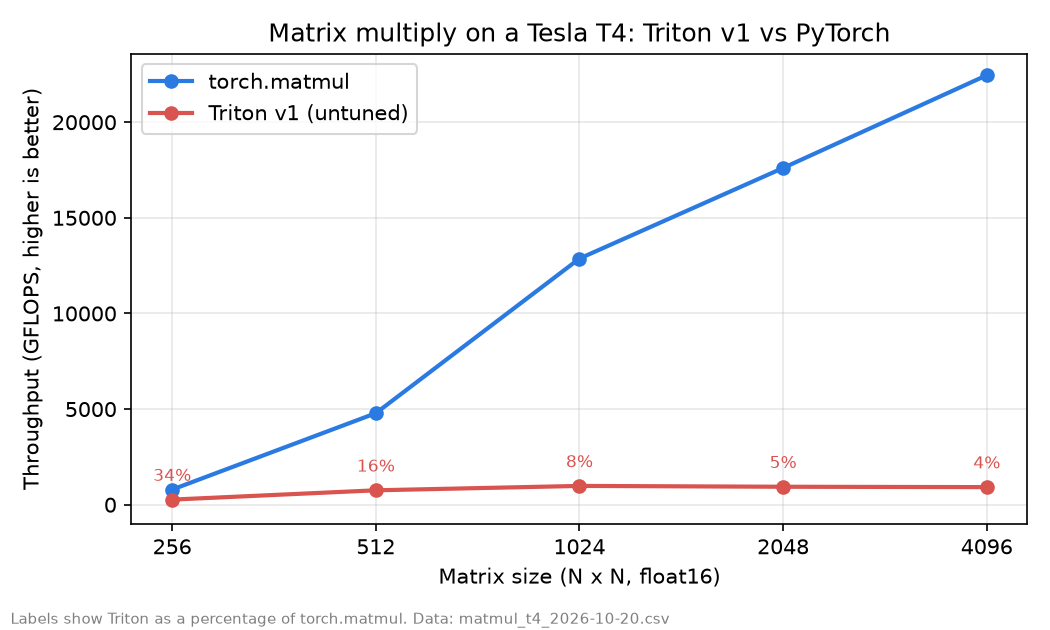
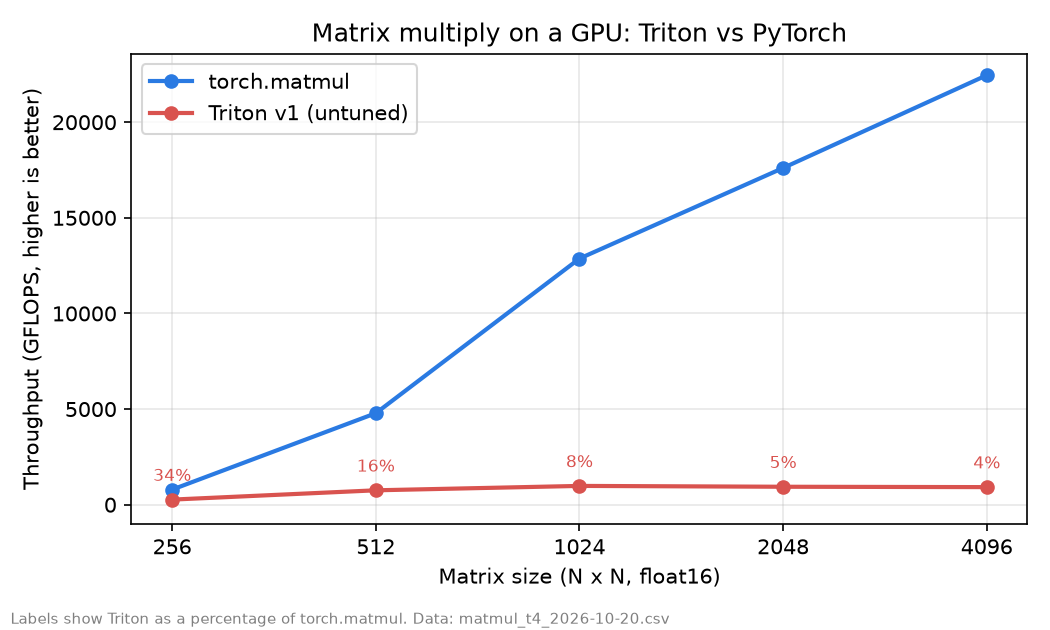
Add matmul v2 (autotune, grouped launch order), launch-order panel on the explainer, tested ordering math

Changed region(s): [[0.2438, 0.0302, 0.8533, 0.0905]]

diff --git a/docs/index.html b/docs/index.html
@@ -41,6 +41,9 @@
   th, td { text-align:right; padding:6px 10px; border-bottom:1px solid var(--line); }
   th:first-child, td:first-child { text-align:left; }
   .axis { stroke: var(--line); } .tick { font-size:12px; fill: var(--muted); }
+  .ord { fill: var(--card); stroke: var(--line); }
+  .ordtxt { font-size:11px; text-anchor:middle; fill: var(--fg); }
+  .wave { fill: var(--c); fill-opacity:.35; }
   a { color: var(--a); }
 </style>
 </head>
@@ -78,7 +81,22 @@
     <p class="muted" style="font-size:14px">Reduction = 2 x BM x BN / (BM + BN). The real kernel uses 64 x 64 tiles, which gives <b id="real">64</b>x fewer reads. The same formula is checked by a test in the repo (<code>tests/test_tiling.py</code>).</p>
   </div>
 
-  <h2>2. What has been measured</h2>
+  <h2>2. In what order should tiles run?</h2>
+  <p>The GPU runs many programs at once, and they share a cache. If the programs running together work on a compact block of output tiles, they need fewer different pieces of A and B, so more reads hit the cache. Version 2 of the kernel launches tiles in groups to do this. The grid below numbers the tiles in launch order, and the shaded ones are the first 16 programs, imagined to run at the same time.</p>
+  <div class="card">
+    <div class="controls">
+      <label>Group size <select id="grp"><option>1</option><option>2</option><option selected>4</option><option>8</option></select></label>
+      <span class="muted" style="font-size:14px">Group 1 is the plain row-by-row order.</span>
+    </div>
+    <svg id="order" role="img" aria-label="Grid of output tiles numbered in launch order, with the first sixteen shaded"></svg>
+    <div class="stats">
+      <div class="stat">Row-bands of A plus column-bands of B needed by the shaded tiles<b id="need">0</b></div>
+      <div class="stat">Same number for the plain row-by-row order<b id="needbase">0</b></div>
+    </div>
+    <p class="muted" style="font-size:14px">Fewer is better. This illustrates the idea and the arithmetic (checked by tests in <code>tests/test_tiling.py</code>). Whether it speeds up the real kernel is measured on a GPU, not claimed here.</p>
+  </div>
+
+  <h2>3. What has been measured</h2>
   <p>First version of the kernel, 16-bit numbers, on a free Tesla T4 on Google Colab (2026-10-20). The answers match PyTorch, but the speed does not yet.</p>
   <div class="card">
     <svg id="chart" viewBox="0 0 720 340" role="img" aria-label="Line chart of throughput versus matrix size for torch.matmul and the first Triton kernel"></svg>
@@ -86,8 +104,8 @@
     <p class="muted" style="font-size:14px">The first kernel uses one fixed tile size and default launch settings, and it reaches about 4 percent of PyTorch's speed at 4096. Next is a sweep of tile sizes, warps and pipeline stages, one change at a time, with each result recorded in the repo.</p>
   </div>
 
-  <h2>3. What is next</h2>
-  <p>Tune the kernel and plot the climb from 4 percent toward PyTorch. Then train a simulated robot on a GPU simulator and compare simulation speed on the CPU and GPU. Everything here runs on a free shared GPU. <a href="https://colab.research.google.com/github/therealemmanueloppong/gpu-robot-lab/blob/main/notebooks/colab_quickstart.ipynb">Run it yourself in Colab</a>.</p>
+  <h2>4. What is next</h2>
+  <p>Version 2 of the kernel (automatic tuning plus the grouped launch order above) is written and waiting for its first GPU run. Then plot the climb from 4 percent toward PyTorch, and report what actually helped. Then train a simulated robot on a GPU simulator and compare simulation speed on the CPU and GPU. Everything here runs on a free shared GPU. <a href="https://colab.research.google.com/github/therealemmanueloppong/gpu-robot-lab/blob/main/notebooks/colab_quickstart.ipynb">Run it yourself in Colab</a>.</p>
 </main>
 
 <script>
@@ -185,6 +203,38 @@
   $('speed').oninput = function () { if (timer) { stop(); play(); } };
   $('real').textContent = (2 * 64 * 64 / (64 + 64)).toString();
   build();
+
+  /* launch order panel, same arithmetic as tiling.grouped_order and the v2 kernel */
+  function grouped(nm, nn, g) {
+    var out = [], per = g * nn;
+    for (var pid = 0; pid < nm * nn; pid++) {
+      var first = Math.floor(pid / per) * g, size = Math.min(nm - first, g);
+      out.push([first + (pid % per) % size, Math.floor((pid % per) / size)]);
+    }
+    return out;
+  }
+  function needed(list) {
+    var ms = {}, ns = {};
+    list.forEach(function (p) { ms[p[0]] = 1; ns[p[1]] = 1; });
+    return Object.keys(ms).length + Object.keys(ns).length;
+  }
+  function drawOrder() {
+    var G = 8, WAVE = 16, cs = 40, pad = 6, g = parseInt($('grp').value, 10);
+    var order = grouped(G, G, g), svg = $('order');
+    while (svg.firstChild) svg.removeChild(svg.firstChild);
+    svg.setAttribute('viewBox', '0 0 ' + (G * cs + 2 * pad) + ' ' + (G * cs + 2 * pad));
+    svg.style.maxWidth = '360px'; svg.style.margin = '0 auto';
+    order.forEach(function (p, i) {
+      el('rect', { x: pad + p[1] * cs, y: pad + p[0] * cs, width: cs, height: cs, 'class': 'ord' }, svg);
+      if (i < WAVE) el('rect', { x: pad + p[1] * cs, y: pad + p[0] * cs, width: cs, height: cs, 'class': 'wave' }, svg);
+      var t = el('text', { x: pad + p[1] * cs + cs / 2, y: pad + p[0] * cs + cs / 2 + 4, 'class': 'ordtxt' }, svg);
+      t.textContent = i;
+    });
+    $('need').textContent = needed(order.slice(0, WAVE));
+    $('needbase').textContent = needed(grouped(G, G, 1).slice(0, WAVE));
+  }
+  $('grp').onchange = drawOrder;
+  drawOrder();
 
   /* measured data, from results/matmul_t4_2026-10-20.csv */
   var data = [

diff --git a/src/gpu_robot_lab/kernels/matmul_v2.py b/src/gpu_robot_lab/kernels/matmul_v2.py
@@ -1,0 +1,80 @@
+"""Matmul v2 in Triton: automatic tuning plus a cache-friendly launch order.
+
+Not yet run on a GPU. Run ``scripts/check_kernels.py`` and ``scripts/bench_matmul.py`` on a Colab GPU.
+
+Two changes from v1:
+1. ``triton.autotune`` tries several tile sizes, warp counts and pipeline depths the first time it
+   sees a new matrix shape and keeps the fastest. Settings that do not fit on the GPU are skipped.
+2. Programs are launched in groups of GROUP_M rows of tiles (see ``tiling.grouped_order``), so tiles
+   that run at the same time reuse the same data from the GPU's L2 cache.
+"""
+from __future__ import annotations
+
+import torch
+import triton
+import triton.language as tl
+
+_CONFIGS = [
+    triton.Config({"BLOCK_M": 128, "BLOCK_N": 128, "BLOCK_K": 32, "GROUP_M": 8}, num_stages=2, num_warps=8),
+    triton.Config({"BLOCK_M": 128, "BLOCK_N": 64, "BLOCK_K": 32, "GROUP_M": 8}, num_stages=3, num_warps=4),
+    triton.Config({"BLOCK_M": 64, "BLOCK_N": 128, "BLOCK_K": 32, "GROUP_M": 8}, num_stages=3, num_warps=4),
+    triton.Config({"BLOCK_M": 64, "BLOCK_N": 64, "BLOCK_K": 32, "GROUP_M": 8}, num_stages=4, num_warps=4),
+    triton.Config({"BLOCK_M": 128, "BLOCK_N": 64, "BLOCK_K": 64, "GROUP_M": 8}, num_stages=2, num_warps=4),
+    triton.Config({"BLOCK_M": 64, "BLOCK_N": 64, "BLOCK_K": 64, "GROUP_M": 8}, num_stages=3, num_warps=4),
+    triton.Config({"BLOCK_M": 32, "BLOCK_N": 64, "BLOCK_K": 32, "GROUP_M": 8}, num_stages=4, num_warps=2),
+]
+
+
+@triton.autotune(configs=_CONFIGS, key=["M", "N", "K"])
+@triton.jit
+def _matmul_kernel_v2(
+    a_ptr, b_ptr, c_ptr, M, N, K,
+    stride_am, stride_ak, stride_bk, stride_bn, stride_cm, stride_cn,
+    BLOCK_M: tl.constexpr, BLOCK_N: tl.constexpr, BLOCK_K: tl.constexpr, GROUP_M: tl.constexpr,
+):
+    pid = tl.program_id(0)
+    num_pid_m = tl.cdiv(M, BLOCK_M)
+    num_pid_n = tl.cdiv(N, BLOCK_N)
+    # Same arithmetic as tiling.grouped_order, which is unit tested on the CPU.
+    per_group = GROUP_M * num_pid_n
+    first_m = (pid // per_group) * GROUP_M
+    size_m = min(num_pid_m - first_m, GROUP_M)
+    pid_m = first_m + ((pid % per_group) % size_m)
+    pid_n = (pid % per_group) // size_m
+
+    offs_m = pid_m * BLOCK_M + tl.arange(0, BLOCK_M)
+    offs_n = pid_n * BLOCK_N + tl.arange(0, BLOCK_N)
+    offs_k = tl.arange(0, BLOCK_K)
+    a_ptrs = a_ptr + offs_m[:, None] * stride_am + offs_k[None, :] * stride_ak
+    b_ptrs = b_ptr + offs_k[:, None] * stride_bk + offs_n[None, :] * stride_bn
+
+    acc = tl.zeros((BLOCK_M, BLOCK_N), dtype=tl.float32)
+    for k in range(tl.cdiv(K, BLOCK_K)):
+        k_left = K - k * BLOCK_K
+        a = tl.load(a_ptrs, mask=(offs_m[:, None] < M) & (offs_k[None, :] < k_left), other=0.0)
+        b = tl.load(b_ptrs, mask=(offs_k[:, None] < k_left) & (offs_n[None, :] < N), other=0.0)
+        acc += tl.dot(a, b)
+        a_ptrs += BLOCK_K * stride_ak
+        b_ptrs += BLOCK_K * stride_bk
+
+    c_ptrs = c_ptr + offs_m[:, None] * stride_cm + offs_n[None, :] * stride_cn
+    tl.store(c_ptrs, acc.to(tl.float16), mask=(offs_m[:, None] < M) & (offs_n[None, :] < N))
+
+
+def matmul_v2(a: torch.Tensor, b: torch.Tensor) -> torch.Tensor:
+    """C = A @ B for float16 CUDA tensors, with autotuned tile settings."""
+    if a.dtype != torch.float16 or b.dtype != torch.float16:
+        raise ValueError("matmul_v2 expects float16 inputs")
+    if not (a.is_cuda and b.is_cuda):
+        raise ValueError("matmul_v2 expects CUDA tensors")
+    if a.ndim != 2 or b.ndim != 2 or a.shape[1] != b.shape[0]:
+        raise ValueError(f"cannot multiply shapes {tuple(a.shape)} and {tuple(b.shape)}")
+    m, k = a.shape
+    _, n = b.shape
+    c = torch.empty((m, n), device=a.device, dtype=torch.float16)
+    grid = lambda meta: (triton.cdiv(m, meta["BLOCK_M"]) * triton.cdiv(n, meta["BLOCK_N"]),)
+    _matmul_kernel_v2[grid](
+        a, b, c, m, n, k,
+        a.stride(0), a.stride(1), b.stride(0), b.stride(1), c.stride(0), c.stride(1),
+    )
+    return c

diff --git a/scripts/plot_results.py b/scripts/plot_results.py
@@ -17,10 +17,15 @@ def main(path: str) -> int:
     sizes = [int(r["size"]) for r in rows]
     torch_g = [float(r["torch_gflops"]) for r in rows]
     triton_g = [float(r["triton_gflops"]) for r in rows]
+    v2_g = [float(r["v2_gflops"]) for r in rows] if "v2_gflops" in rows[0] else None
 
     fig, ax = plt.subplots(figsize=(7, 4.2), dpi=150)
     ax.plot(sizes, torch_g, marker="o", linewidth=2, color="#2a7ae2", label="torch.matmul")
     ax.plot(sizes, triton_g, marker="o", linewidth=2, color="#d9534f", label="Triton v1 (untuned)")
+    if v2_g:
+        ax.plot(sizes, v2_g, marker="o", linewidth=2, color="#2e9e6b", label="Triton v2 (autotuned)")
+        for x, t, y in zip(sizes, torch_g, v2_g):
+            ax.annotate(f"{y / t:.0%}", (x, y), textcoords="offset points", xytext=(0, 9), ha="center", fontsize=8, color="#2e9e6b")
     for x, t, y in zip(sizes, torch_g, triton_g):
         ax.annotate(f"{y / t:.0%}", (x, y), textcoords="offset points", xytext=(0, 9), ha="center", fontsize=8, color="#d9534f")
     ax.set_xscale("log", base=2)
@@ -28,7 +33,7 @@ def main(path: str) -> int:
     ax.set_xticklabels([str(s) for s in sizes])
     ax.set_xlabel("Matrix size (N x N, float16)")
     ax.set_ylabel("Throughput (GFLOPS, higher is better)")
-    ax.set_title("Matrix multiply on a Tesla T4: Triton v1 vs PyTorch")
+    ax.set_title("Matrix multiply on a GPU: Triton vs PyTorch")
     ax.set_ylim(bottom=-1000)
     ax.grid(alpha=0.3)
     ax.legend()

diff --git a/src/gpu_robot_lab/tiling.py b/src/gpu_robot_lab/tiling.py
@@ -68,3 +68,30 @@ def traffic_reduction(block_m: int, block_n: int) -> float:
     so the saving is 2 * BM * BN / (BM + BN).
     """
     return 2 * block_m * block_n / (block_m + block_n)
+
+
+def row_major_order(num_pid_m: int, num_pid_n: int) -> list[tuple[int, int]]:
+    """The simple launch order: finish a whole row of output tiles, then the next row."""
+    return [(i, j) for i in range(num_pid_m) for j in range(num_pid_n)]
+
+
+def grouped_order(num_pid_m: int, num_pid_n: int, group_m: int) -> list[tuple[int, int]]:
+    """The launch order used by matmul_v2: walk down groups of ``group_m`` rows of tiles.
+
+    This is the same arithmetic the kernel does with its program id. Programs that run at the
+    same time then work on a compact block of output tiles and share loaded data in cache.
+    """
+    if group_m < 1:
+        raise ValueError("group_m must be positive")
+    order = []
+    per_group = group_m * num_pid_n
+    for pid in range(num_pid_m * num_pid_n):
+        first_m = (pid // per_group) * group_m
+        size_m = min(num_pid_m - first_m, group_m)
+        order.append((first_m + (pid % per_group) % size_m, (pid % per_group) // size_m))
+    return order
+
+
+def tiles_needed(order: list[tuple[int, int]]) -> int:
+    """How many different row-bands of A plus column-bands of B a set of programs must load."""
+    return len({m for m, _ in order}) + len({n for _, n in order})

diff --git a/scripts/bench_matmul.py b/scripts/bench_matmul.py
@@ -16,6 +16,7 @@ def main() -> int:
     import triton
 
     from gpu_robot_lab.kernels.matmul import matmul
+    from gpu_robot_lab.kernels.matmul_v2 import matmul_v2
 
     print(f"GPU: {torch.cuda.get_device_name(0)}")
     print(f"torch {torch.__version__}, triton {triton.__version__}, CUDA {torch.version.cuda}")
@@ -26,6 +27,8 @@ def main() -> int:
         flops = matmul_flops(size, size, size)
         torch_t = time_fn(lambda a=a, b=b: torch.matmul(a, b), sync=torch.cuda.synchronize)
         mine_t = time_fn(lambda a=a, b=b: matmul(a, b), sync=torch.cuda.synchronize)
+        matmul_v2(a, b)  # first call runs the autotuner, so keep it out of the timing
+        v2_t = time_fn(lambda a=a, b=b: matmul_v2(a, b), sync=torch.cuda.synchronize)
         row = {
             "size": size,
             "torch_ms": round(torch_t.median_ms, 4),
@@ -33,6 +36,9 @@ def main() -> int:
             "torch_gflops": round(gflops(flops, torch_t.median_ms), 1),
             "triton_gflops": round(gflops(flops, mine_t.median_ms), 1),
             "triton_vs_torch": round(speedup(torch_t.median_ms, mine_t.median_ms), 3),
+            "v2_ms": round(v2_t.median_ms, 4),
+            "v2_gflops": round(gflops(flops, v2_t.median_ms), 1),
+            "v2_vs_torch": round(speedup(torch_t.median_ms, v2_t.median_ms), 3),
         }
         rows.append(row)
         print(row)

diff --git a/tests/test_tiling.py b/tests/test_tiling.py
@@ -40,3 +40,30 @@ def test_bad_inputs_are_rejected():
         tiled_matmul(np.zeros((2, 3)), np.zeros((4, 2)))
     with pytest.raises(ValueError):
         tiled_matmul(np.zeros((2, 2)), np.zeros((2, 2)), 0, 4, 4)
+
+
+from gpu_robot_lab.tiling import grouped_order, row_major_order, tiles_needed
+
+
+@pytest.mark.parametrize("shape", [(1, 1), (8, 8), (7, 5), (5, 7), (13, 3), (64, 64)])
+@pytest.mark.parametrize("group_m", [1, 2, 4, 8, 100])
+def test_grouped_order_visits_every_tile_exactly_once(shape, group_m):
+    order = grouped_order(*shape, group_m)
+    assert len(order) == shape[0] * shape[1]
+    assert set(order) == set(row_major_order(*shape))
+
+
+def test_group_of_one_is_the_plain_row_major_order():
+    assert grouped_order(6, 5, 1) == row_major_order(6, 5)
+
+
+def test_a_square_group_needs_fewer_loaded_bands_than_row_major():
+    wave = 16  # programs imagined to run at the same time
+    row = tiles_needed(row_major_order(8, 8)[:wave])
+    grouped = tiles_needed(grouped_order(8, 8, 4)[:wave])
+    assert (row, grouped) == (10, 8)
+
+
+def test_group_size_must_be_positive():
+    with pytest.raises(ValueError):
+        grouped_order(4, 4, 0)

diff --git a/scripts/check_kernels.py b/scripts/check_kernels.py
@@ -13,6 +13,7 @@ def main() -> int:
     import torch
 
     from gpu_robot_lab.kernels.matmul import matmul
+    from gpu_robot_lab.kernels.matmul_v2 import matmul_v2
     from gpu_robot_lab.kernels.softmax import softmax
 
     torch.manual_seed(0)
@@ -25,6 +26,9 @@ def main() -> int:
         ok = torch.allclose(matmul(a, b), a @ b, rtol=1e-2, atol=1e-1)
         failures += not ok
         print(f"matmul  {m}x{k} @ {k}x{n}: max abs error {err:.4f}  {'PASS' if ok else 'FAIL'}")
+        ok2 = torch.allclose(matmul_v2(a, b), a @ b, rtol=1e-2, atol=1e-1)
+        failures += not ok2
+        print(f"matmul2 {m}x{k} @ {k}x{n}: {'PASS' if ok2 else 'FAIL'}")
 
     for rows, cols in [(1, 10), (128, 257), (1024, 1000)]:
         x = torch.randn((rows, cols), device="cuda", dtype=torch.float32)

diff --git a/README.md b/README.md
@@ -12,12 +12,13 @@ See [docs/PLAN.md](docs/PLAN.md) for the stages, the rules for what can be claim
 
 - **[Interactive explainer (live page)](https://therealemmanueloppong.github.io/gpu-robot-lab/)**: animates how the tiled kernel loads tiles and why it reads about 64 times less memory than a naive multiply, and shows the measured results. The source is `docs/index.html`.
 - **Results chart**: below, from real runs on a Colab T4.
+- **v2 kernel**: autotuning plus grouped launch order. `scripts/check_kernels.py` and `scripts/bench_matmul.py` now check and time v1, v2 and `torch.matmul` together, so one Colab run produces the comparison.
 - **Tuning study**: `scripts/tune_matmul.py` sweeps tile sizes, warps and pipeline stages. Its chart goes here once it has been run.
 
 ## What is in the repo
 
-- `src/gpu_robot_lab/kernels/` a tiled matrix multiply and a row-wise softmax in Triton
-- `src/gpu_robot_lab/tiling.py` a CPU model of the kernel's tiling and edge handling, tested in CI, with the memory-traffic formula
+- `src/gpu_robot_lab/kernels/` a tiled matrix multiply (`matmul.py`, v1), an autotuned v2 with a cache-friendly launch order (`matmul_v2.py`, **written but not yet run on a GPU**), and a row-wise softmax, all in Triton
+- `src/gpu_robot_lab/tiling.py` a CPU model of the kernel's tiling, edge handling and launch order, tested in CI, with the memory-traffic formula
 - `src/gpu_robot_lab/bench.py` timing that works correctly for asynchronous GPU code, plus GFLOPS and speedup helpers
 - `src/gpu_robot_lab/reference.py` and `checks.py` the CPU ground truth and error checking
 - `scripts/check_kernels.py` checks every kernel against PyTorch
